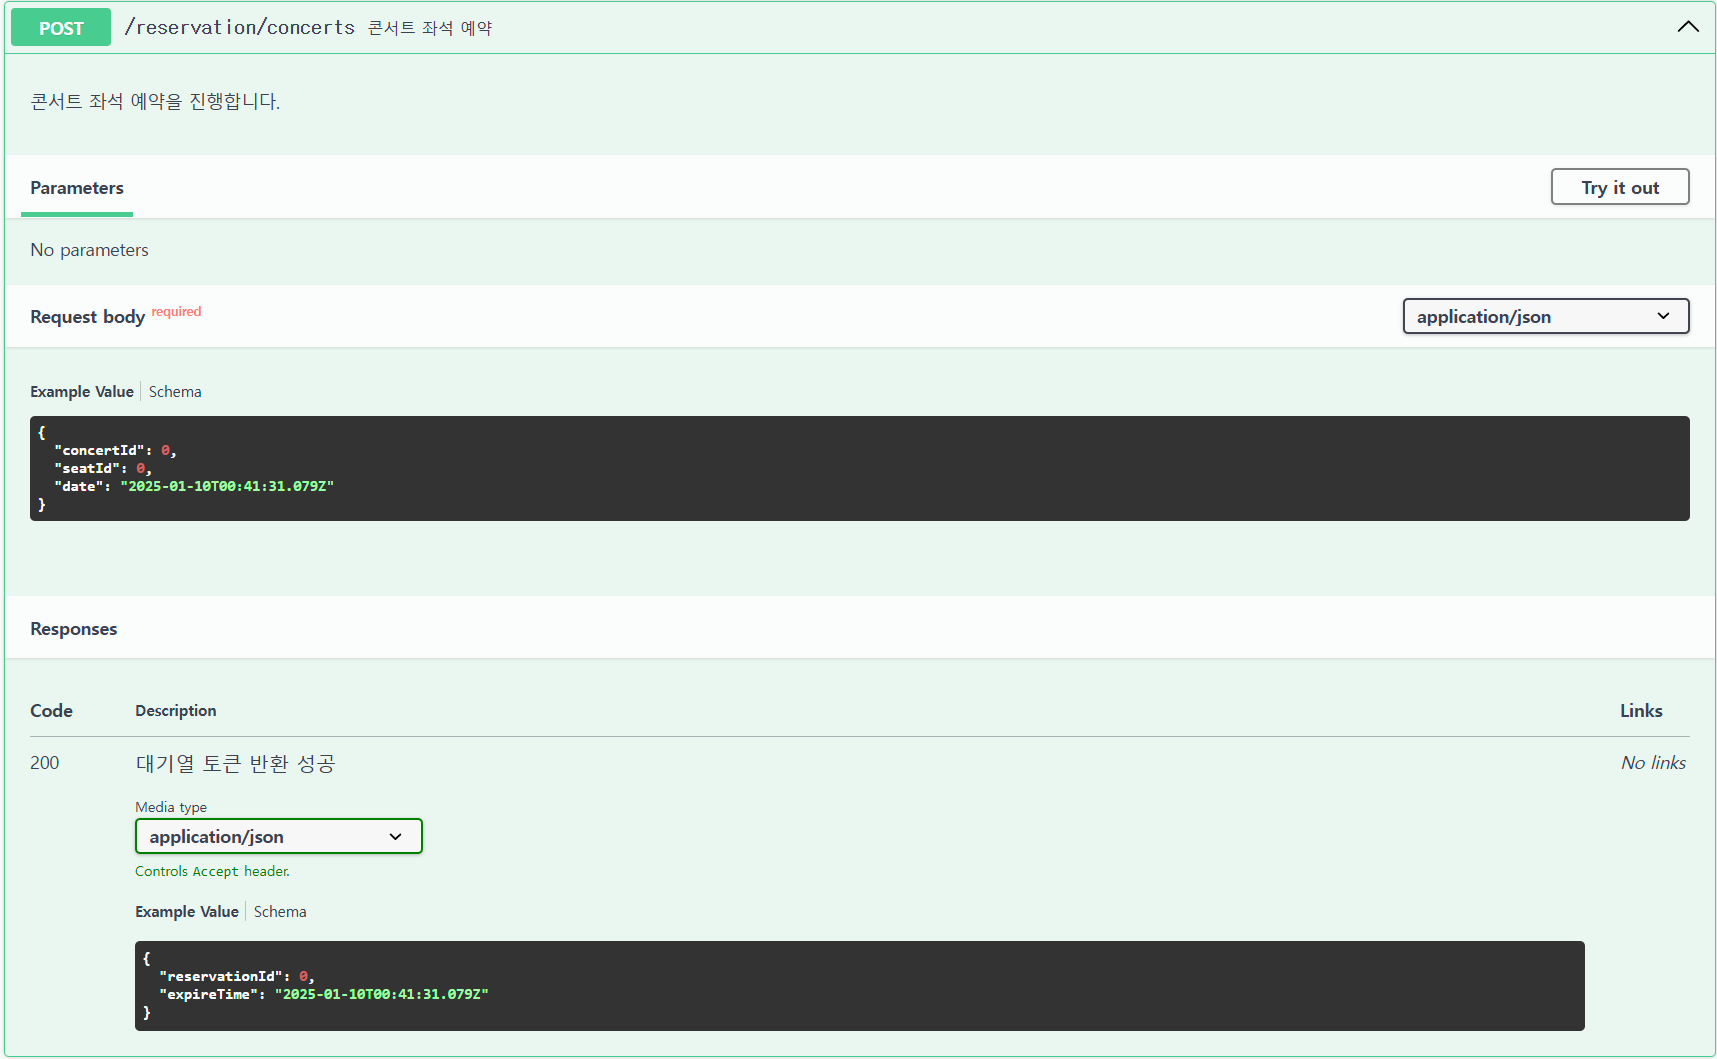
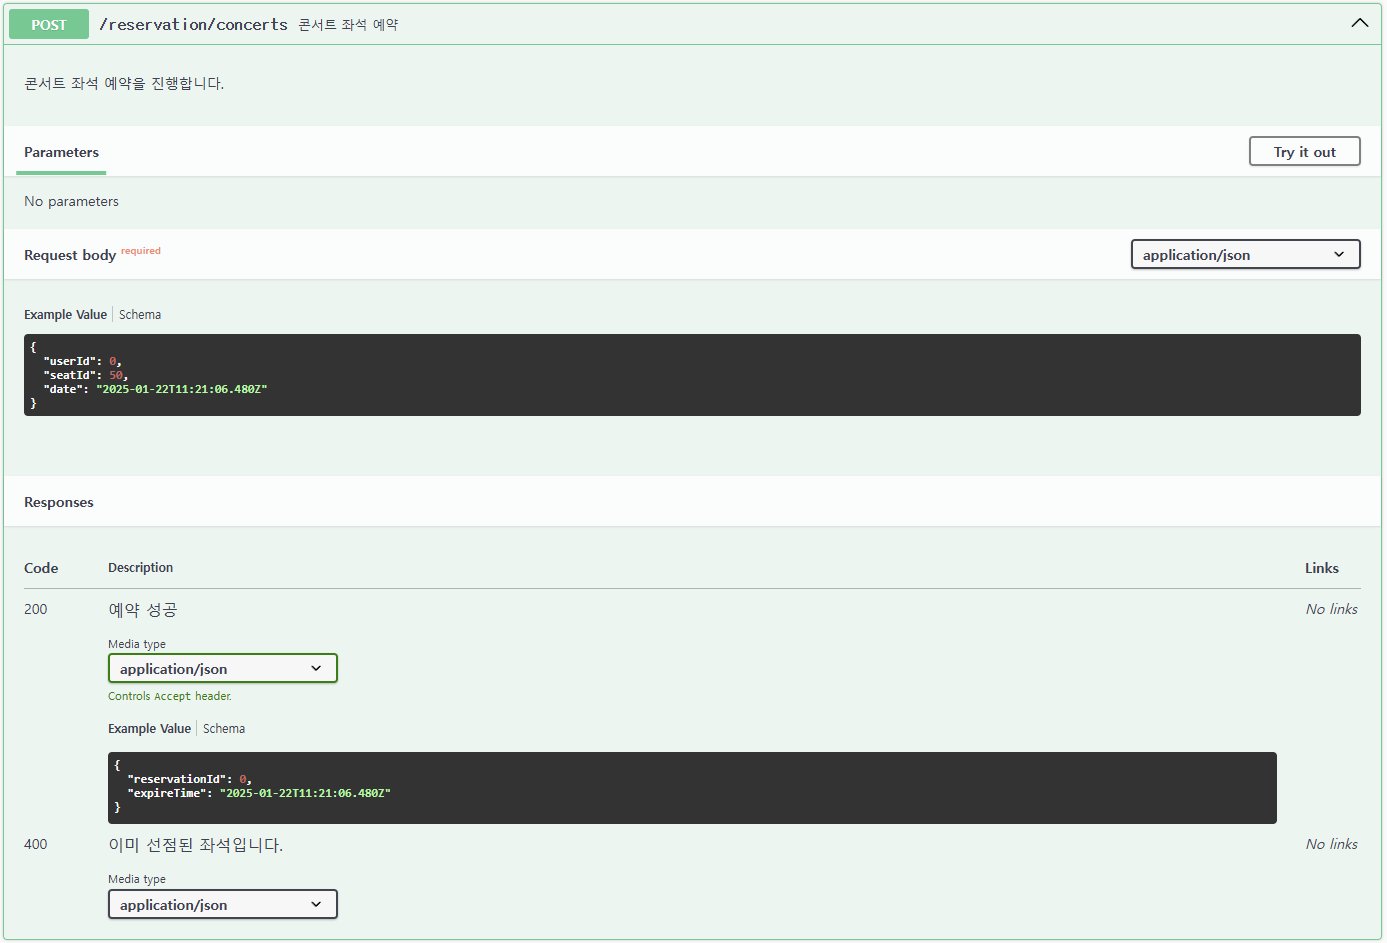
refactor: 좌석 예약 API 리팩토링

diff --git a/src/test/java/kr/hhplus/be/server/api/reservation/presentation/ReservationFacadeIntegrationTest.java b/src/test/java/kr/hhplus/be/server/api/reservation/presentation/ReservationFacadeIntegrationTest.java
@@ -6,6 +6,7 @@ import kr.hhplus.be.server.api.concert.domain.repository.ConcertSeatRepository;
 import kr.hhplus.be.server.api.concert.exception.ConcertErrorCode;
 import kr.hhplus.be.server.api.reservation.application.port.in.CreateReservationDto;
 import kr.hhplus.be.server.api.reservation.application.port.in.ReservationPaymentDto;
+import kr.hhplus.be.server.api.reservation.application.port.in.ReserveSeatDto;
 import kr.hhplus.be.server.api.reservation.application.port.out.ReservationPaymentResult;
 import kr.hhplus.be.server.api.reservation.application.port.out.ReservationResult;
 import kr.hhplus.be.server.api.reservation.domain.entity.ReservationFixture;
@@ -64,7 +65,7 @@ class ReservationFacadeIntegrationTest extends BaseIntegrationTest {
 		void 만료시간이_지난_예약은_취소되고_좌석배정은_해제된다() {
 			// when
 			final List<Reservation> tempReservations = List.of(
-					ReservationFixture.create( 1L, 1L, 1000L, ReservationStatus.WAITING, timeProvider.now().minusSeconds(10), null),
+					ReservationFixture.create( 1L, 1L, 1000L, ReservationStatus.WAITING, timeProvider.now().minusSeconds(Reservation.EXPIRE_SECONDS+1), null),
 					ReservationFixture.create( 2L, 2L, 1000L, ReservationStatus.WAITING, timeProvider.now(), null),
 					ReservationFixture.create( 3L, 3L, 1000L, ReservationStatus.WAITING, timeProvider.now().plusSeconds(10), null)
 			);
@@ -117,7 +118,7 @@ class ReservationFacadeIntegrationTest extends BaseIntegrationTest {
 			// given
 			ConcertSeat concertSeat = ConcertSeatFixture.create(3L, 1, 1000L, false);
 			concertSeatRepository.save(concertSeat);
-			CreateReservationDto dto = new CreateReservationDto(1L, 4L, 1000L, Date.valueOf("2024-10-01"));
+			ReserveSeatDto dto = new ReserveSeatDto(1L, 4L, Date.valueOf("2024-10-01"));
 
 			// when
 			ReservationResult reservation = reservationFacade.reserve(dto);
@@ -134,7 +135,7 @@ class ReservationFacadeIntegrationTest extends BaseIntegrationTest {
 			// given
 			ConcertSeat concertSeat = ConcertSeatFixture.create(1L, 2, 1000L, true);
 			concertSeatRepository.save(concertSeat);
-			CreateReservationDto dto = new CreateReservationDto(1L, 1L, 1000L, Date.valueOf("2024-10-01"));
+			ReserveSeatDto dto = new ReserveSeatDto(1L, 1L, Date.valueOf("2024-10-01"));
 
 			// when & then
 			assertThatThrownBy(() -> reservationFacade.reserve(dto))
@@ -148,7 +149,7 @@ class ReservationFacadeIntegrationTest extends BaseIntegrationTest {
 			concertSeatRepository.save(concertSeat);
 			Reservation testReservation = ReservationFixture.create(1L, 1, 1000L, ReservationStatus.WAITING, timeProvider.now(), null);
 			reservationRepository.save(testReservation);
-			CreateReservationDto dto = new CreateReservationDto(1L, 1L, 1000L, Date.valueOf("2024-10-01"));
+			ReserveSeatDto dto = new ReserveSeatDto(1L, 1L, Date.valueOf("2024-10-01"));
 
 			// when & then
 			assertThatThrownBy(() -> reservationFacade.reserve(dto))

diff --git a/src/test/java/kr/hhplus/be/server/api/reservation/presentation/ReservationControllerTest.java b/src/test/java/kr/hhplus/be/server/api/reservation/presentation/ReservationControllerTest.java
@@ -65,7 +65,7 @@ public class ReservationControllerTest extends BaseControllerTest {
 			when(reservationFacade.reserve(any())).thenReturn(result);
 
 			ConcertReservationRequest request = new ConcertReservationRequest(
-					1L, 1L, 1000L, Date.valueOf("2024-01-01"));
+					1L, 1L, Date.valueOf("2024-01-01"));
 
 			// when & then
 			mockMvc.perform(post("/reservation/concerts")
@@ -85,7 +85,7 @@ public class ReservationControllerTest extends BaseControllerTest {
 			when(reservationFacade.reserve(any())).thenReturn(result);
 
 			ConcertReservationRequest request = new ConcertReservationRequest(
-					1L, 50L, 1000L, Date.valueOf("2024-01-01"));
+					1L, 50L, Date.valueOf("2024-01-01"));
 
 			// when & then
 			mockMvc.perform(post("/reservation/concerts")
@@ -101,7 +101,7 @@ public class ReservationControllerTest extends BaseControllerTest {
 		void 좌석번호가_0일_경우_요청_실패() throws Exception {
 			// given
 			ConcertReservationRequest request = new ConcertReservationRequest(
-					1L, 0L, 1000L, Date.valueOf("2024-01-01"));
+					1L, 0L, Date.valueOf("2024-01-01"));
 
 			// when & then
 			mockMvc.perform(post("/reservation/concerts")
@@ -116,7 +116,7 @@ public class ReservationControllerTest extends BaseControllerTest {
 		void 좌석번호가_51일_경우_요청_실패() throws Exception {
 			// given
 			ConcertReservationRequest request = new ConcertReservationRequest(
-					1L, 51L, 1000L, Date.valueOf("2024-01-01"));
+					1L, 51L, Date.valueOf("2024-01-01"));
 
 			// when & then
 			mockMvc.perform(post("/reservation/concerts")

diff --git a/src/main/java/kr/hhplus/be/server/exception/GlobalExceptionHandler.java b/src/main/java/kr/hhplus/be/server/exception/GlobalExceptionHandler.java
@@ -1,7 +1,9 @@
 package kr.hhplus.be.server.exception;
 
+import jakarta.persistence.OptimisticLockException;
 import jakarta.validation.ConstraintViolationException;
 import lombok.extern.slf4j.Slf4j;
+import org.springframework.dao.OptimisticLockingFailureException;
 import org.springframework.http.ResponseEntity;
 import org.springframework.http.converter.HttpMessageConversionException;
 import org.springframework.web.HttpRequestMethodNotSupportedException;
@@ -27,7 +29,7 @@ public class GlobalExceptionHandler {
 
 	@ExceptionHandler(CustomException.class)
 	public ResponseEntity<ErrorResponse<Void>> handleCustomException(CustomException e) {
-		log.warn("[CustomException] Code: {}, Reason: {}", e.getCode(), e.getReason(), e);
+		log.warn("[CustomException] Code: {}, Reason: {}", e.getCode(), e.getReason());
 		return ResponseEntity.status(e.getHttpStatus()).body(ErrorResponse.from(e));
 	}
 
@@ -85,5 +87,11 @@ public class GlobalExceptionHandler {
 				.map(error -> new ErrorResponse.Detail(error.getField(), error.getDefaultMessage()))
 				.toList();
 		return ResponseEntity.badRequest().body(ErrorResponse.from(RequestErrorCode.INVALID_INPUT, details));
+	}
+
+	@ExceptionHandler(OptimisticLockingFailureException.class)
+	public ResponseEntity<ErrorResponse<ErrorResponse.Detail>> handleOptimisticLockException(OptimisticLockingFailureException e) {
+		return ResponseEntity.status(RequestErrorCode.FAIL_REQUEST.getHttpStatus())
+				.body(ErrorResponse.from(RequestErrorCode.FAIL_REQUEST, null));
 	}
 }

diff --git a/src/main/java/kr/hhplus/be/server/api/reservation/application/ReservationService.java b/src/main/java/kr/hhplus/be/server/api/reservation/application/ReservationService.java
@@ -27,7 +27,7 @@ public class ReservationService {
 	public List<ReservationResult> expireReservations() {
 		List<Reservation> expireReservations = reservationRepository.findByStatusWithLock(ReservationStatus.WAITING)
 				.stream()
-				.filter(reservation -> reservation.getCreatedAt().isBefore(timeProvider.now()))
+				.filter(reservation -> reservation.getExpiredAt().isBefore(timeProvider.now()))
 				.toList();
 
 		reservationRepository.updateStatus(expireReservations, ReservationStatus.EXPIRED);
@@ -40,11 +40,11 @@ public class ReservationService {
 
 	@Transactional
 	public ReservationResult reserve(CreateReservationDto dto) {
-		List<Reservation> duplicateReservations = reservationRepository.findByConcertSeatIdAndStatus(dto.concertSeatId(), ReservationStatus.WAITING);
+		List<Reservation> duplicateReservations = reservationRepository.findByConcertSeatIdAndStatus(dto.seatId(), ReservationStatus.WAITING);
 		if (!duplicateReservations.isEmpty()) {
 			throw new CustomException(ReservationErrorCode.ALREADY_SEAT_RESERVATION);
 		}
-		Reservation reservation = Reservation.of(dto.concertSeatId(), dto.userId(), dto.amount(), timeProvider.now());
+		Reservation reservation = Reservation.of(dto.seatId(), dto.userId(), dto.amount(), timeProvider.now());
 		return ReservationResult.from(reservationRepository.save(reservation));
 	}
 

diff --git a/src/test/java/kr/hhplus/be/server/api/reservation/presentation/ReservationFacadeTest.java b/src/test/java/kr/hhplus/be/server/api/reservation/presentation/ReservationFacadeTest.java
@@ -6,6 +6,7 @@ import kr.hhplus.be.server.api.concert.application.port.out.ConcertSeatResult;
 import kr.hhplus.be.server.api.reservation.application.ReservationService;
 import kr.hhplus.be.server.api.reservation.application.port.in.CreateReservationDto;
 import kr.hhplus.be.server.api.reservation.application.port.in.ReservationPaymentDto;
+import kr.hhplus.be.server.api.reservation.application.port.in.ReserveSeatDto;
 import kr.hhplus.be.server.api.reservation.application.port.out.ReservationPaymentResult;
 import kr.hhplus.be.server.api.reservation.application.port.out.ReservationResult;
 import kr.hhplus.be.server.api.reservation.domain.entity.ReservationStatus;
@@ -82,7 +83,7 @@ public class ReservationFacadeTest {
 			ConcertSeatResult concertSeatResult = new ConcertSeatResult(1L, 1L, 1, 1000L, true);
 			when(concertService.reserveSeat(anyLong())).thenReturn(concertSeatResult);
 
-			CreateReservationDto dto = new CreateReservationDto(1L, 1L, 1000L, Date.valueOf("2024-10-01"));
+			ReserveSeatDto dto = new ReserveSeatDto(1L, 1L, Date.valueOf("2024-10-01"));
 			ReservationResult reservationResult = new ReservationResult(1L, 1L, 1L, 1000L, ReservationStatus.WAITING, Instant.now(), null);
 			when(reservationService.reserve(any(CreateReservationDto.class))).thenReturn(reservationResult);
 

diff --git a/src/main/java/kr/hhplus/be/server/api/reservation/presentation/ReservationFacade.java b/src/main/java/kr/hhplus/be/server/api/reservation/presentation/ReservationFacade.java
@@ -7,6 +7,7 @@ import kr.hhplus.be.server.api.reservation.application.ReservationService;
 import kr.hhplus.be.server.api.reservation.application.port.in.ConfirmReservationDto;
 import kr.hhplus.be.server.api.reservation.application.port.in.CreateReservationDto;
 import kr.hhplus.be.server.api.reservation.application.port.in.ReservationPaymentDto;
+import kr.hhplus.be.server.api.reservation.application.port.in.ReserveSeatDto;
 import kr.hhplus.be.server.api.reservation.application.port.out.ReservationPaymentResult;
 import kr.hhplus.be.server.api.reservation.application.port.out.ReservationResult;
 import kr.hhplus.be.server.api.user.application.UserService;
@@ -37,9 +38,9 @@ public class ReservationFacade {
 		concertService.unReserveSeats(seatIds);
 	}
 
-	public ReservationResult reserve(CreateReservationDto dto) {
+	public ReservationResult reserve(ReserveSeatDto dto) {
 		return compensationProvider.handle(compensations -> {
-			ConcertSeatResult concertSeat = concertService.reserveSeat(dto.concertSeatId());
+			ConcertSeatResult concertSeat = concertService.reserveSeat(dto.seatId());
 			compensations.add(() -> concertService.unReserveSeat(concertSeat.id()));
 
 			CreateReservationDto reservationDto = new CreateReservationDto(

diff --git a/src/test/java/kr/hhplus/be/server/api/reservation/application/ReservationServiceIntegrationTest.java b/src/test/java/kr/hhplus/be/server/api/reservation/application/ReservationServiceIntegrationTest.java
@@ -41,7 +41,7 @@ class ReservationServiceIntegrationTest extends BaseIntegrationTest {
 		void 만료시간이_이미_지난_예약만_처리된다() {
 			// given
 			final List<Reservation> reservations = List.of(
-					ReservationFixture.create( 1L, 1L, 1000L, ReservationStatus.WAITING, timeProvider.now().minusSeconds(10), null),
+					ReservationFixture.create( 1L, 1L, 1000L, ReservationStatus.WAITING, timeProvider.now().minusSeconds(Reservation.EXPIRE_SECONDS+1), null),
 					ReservationFixture.create( 2L, 2L, 1000L, ReservationStatus.WAITING, timeProvider.now(), null),
 					ReservationFixture.create( 3L, 3L, 1000L, ReservationStatus.WAITING, timeProvider.now().plusSeconds(10), null)
 			);
@@ -74,7 +74,7 @@ class ReservationServiceIntegrationTest extends BaseIntegrationTest {
 			// then
 			assertAll(() -> {
 				assertThat(sut.userId()).isEqualTo(dto.userId());
-				assertThat(sut.concertSeatId()).isEqualTo(dto.concertSeatId());
+				assertThat(sut.concertSeatId()).isEqualTo(dto.seatId());
 				assertThat(sut.amount()).isEqualTo(dto.amount());
 				assertThat(sut.status()).isEqualTo(ReservationStatus.WAITING);
 				assertThat(sut.expiredAt()).isEqualTo(timeProvider.now().plusSeconds(Reservation.EXPIRE_SECONDS));

diff --git a/src/test/java/kr/hhplus/be/server/api/reservation/presentation/ReservationFacadeConcurrencyTest.java b/src/test/java/kr/hhplus/be/server/api/reservation/presentation/ReservationFacadeConcurrencyTest.java
@@ -4,6 +4,7 @@ import kr.hhplus.be.server.api.concert.domain.entity.ConcertSeat;
 import kr.hhplus.be.server.api.concert.domain.entity.ConcertSeatFixture;
 import kr.hhplus.be.server.api.concert.domain.repository.ConcertSeatRepository;
 import kr.hhplus.be.server.api.reservation.application.port.in.CreateReservationDto;
+import kr.hhplus.be.server.api.reservation.application.port.in.ReserveSeatDto;
 import kr.hhplus.be.server.api.reservation.domain.entity.Reservation;
 import kr.hhplus.be.server.api.reservation.domain.repository.ReservationRepository;
 import kr.hhplus.be.server.base.BaseIntegrationTest;
@@ -46,7 +47,7 @@ class ReservationFacadeConcurrencyTest extends BaseIntegrationTest {
 			int tryCount = 20;
 			for (long i = 1; i <= tryCount; i++) {
 				final long userId = i;
-				tasks.add(() -> reservationFacade.reserve(new CreateReservationDto(1L, userId, 1000L, Date.valueOf("2024-10-01"))));
+				tasks.add(() -> reservationFacade.reserve(new ReserveSeatDto(1L, userId, Date.valueOf("2024-10-01"))));
 			}
 
 			ConcurrencyTestUtil.Result result = ConcurrencyTestUtil.run(tasks);

diff --git a/src/main/java/kr/hhplus/be/server/api/reservation/presentation/port/in/ConcertReservationRequest.java b/src/main/java/kr/hhplus/be/server/api/reservation/presentation/port/in/ConcertReservationRequest.java
@@ -3,13 +3,13 @@ package kr.hhplus.be.server.api.reservation.presentation.port.in;
 import jakarta.validation.constraints.Max;
 import jakarta.validation.constraints.Min;
 import jakarta.validation.constraints.NotNull;
-import kr.hhplus.be.server.api.reservation.application.port.in.CreateReservationDto;
+import kr.hhplus.be.server.api.reservation.application.port.in.ReserveSeatDto;
 
 import java.util.Date;
 
 public record ConcertReservationRequest(
 		@NotNull
-		Long concertId,
+		Long userId,
 
 		@Min(1)
 		@Max(50)
@@ -17,12 +17,9 @@ public record ConcertReservationRequest(
 		Long seatId,
 
 		@NotNull
-		Long amount,
-
-		@NotNull
 		Date date
 ) {
-	public CreateReservationDto toDto() {
-		return new CreateReservationDto(concertId, seatId, amount, date);
+	public ReserveSeatDto toDto() {
+		return new ReserveSeatDto(seatId, userId, date);
 	}
 }

diff --git a/src/main/java/kr/hhplus/be/server/api/reservation/presentation/ReservationController.java b/src/main/java/kr/hhplus/be/server/api/reservation/presentation/ReservationController.java
@@ -1,7 +1,6 @@
 package kr.hhplus.be.server.api.reservation.presentation;
 
 import jakarta.validation.Valid;
-import kr.hhplus.be.server.api.reservation.application.port.in.CreateReservationDto;
 import kr.hhplus.be.server.api.reservation.application.port.in.ReservationPaymentDto;
 import kr.hhplus.be.server.api.reservation.application.port.out.ReservationPaymentResult;
 import kr.hhplus.be.server.api.reservation.application.port.out.ReservationResult;
@@ -16,8 +15,6 @@ import org.springframework.web.bind.annotation.RequestBody;
 import org.springframework.web.bind.annotation.RequestMapping;
 import org.springframework.web.bind.annotation.RestController;
 
-import java.time.Instant;
-import java.time.temporal.ChronoUnit;
 
 @RestController
 @RequestMapping("/reservation")

diff --git a/src/main/java/kr/hhplus/be/server/exception/RequestErrorCode.java b/src/main/java/kr/hhplus/be/server/exception/RequestErrorCode.java
@@ -10,7 +10,8 @@ public enum RequestErrorCode implements ErrorCode {
 	UNSUPPORTED_API_METHOD(HttpStatus.METHOD_NOT_ALLOWED, "UNSUPPORTED_API_METHOD", "지원하지 않는 API Method입니다."),
 	MISSING_PATH(HttpStatus.BAD_REQUEST, "MISSING_PATH", "request path가 누락되었습니다."),
 	INVALID_JSON(HttpStatus.BAD_REQUEST, "INVALID_JSON", "request body는 JSON 포맷이어야 합니다."),
-	INVALID_INPUT(HttpStatus.BAD_REQUEST, "INVALID_INPUT", "입력값이 올바르지 않습니다.");
+	INVALID_INPUT(HttpStatus.BAD_REQUEST, "INVALID_INPUT", "입력값이 올바르지 않습니다."),
+	FAIL_REQUEST(HttpStatus.BAD_REQUEST, "FAIL_REQUEST", "요청 실패");
 
 	private HttpStatus httpStatus;
 	private String code;

diff --git a/src/test/java/kr/hhplus/be/server/api/reservation/application/ReservationServiceTest.java b/src/test/java/kr/hhplus/be/server/api/reservation/application/ReservationServiceTest.java
@@ -55,7 +55,7 @@ public class ReservationServiceTest {
 		void 좌석_배정시간이_지난_예약_만료처리_성공() {
 			// given
 			List<Reservation> reservations = List.of(
-					ReservationFixture.createMock(1L, 1L, 1L, 1000L, ReservationStatus.WAITING, timeProvider.now().minusSeconds(10), null),
+					ReservationFixture.createMock(1L, 1L, 1L, 1000L, ReservationStatus.WAITING, timeProvider.now().minusSeconds(Reservation.EXPIRE_SECONDS+1), null),
 					ReservationFixture.createMock( 2L, 2L, 2L, 1000L, ReservationStatus.WAITING, timeProvider.now(), null),
 					ReservationFixture.createMock(3L, 3L, 3L, 1000L, ReservationStatus.WAITING, timeProvider.now().plusSeconds(10), null)
 			);
